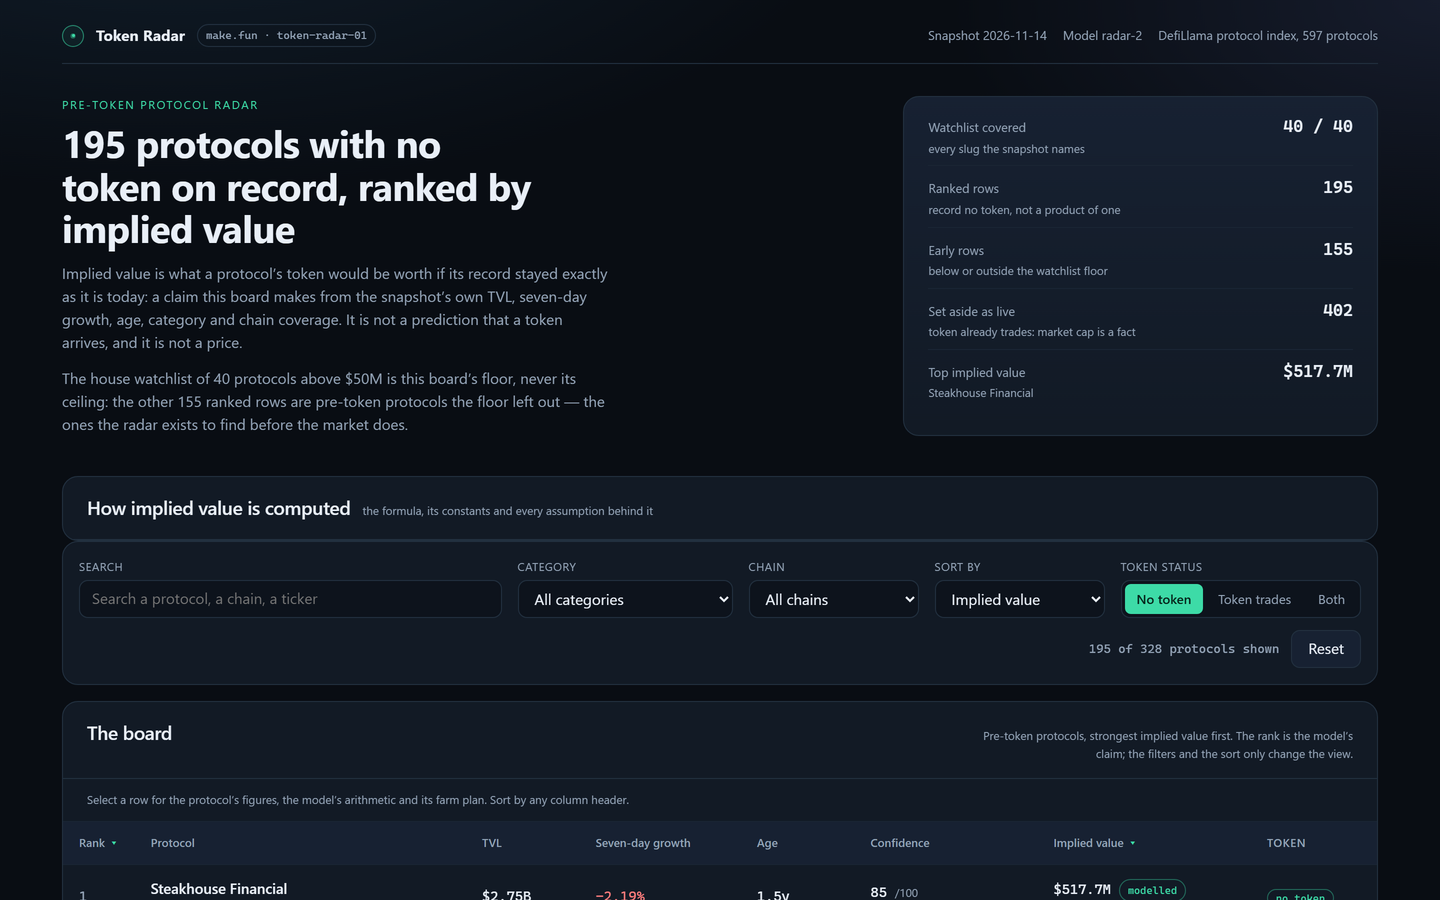
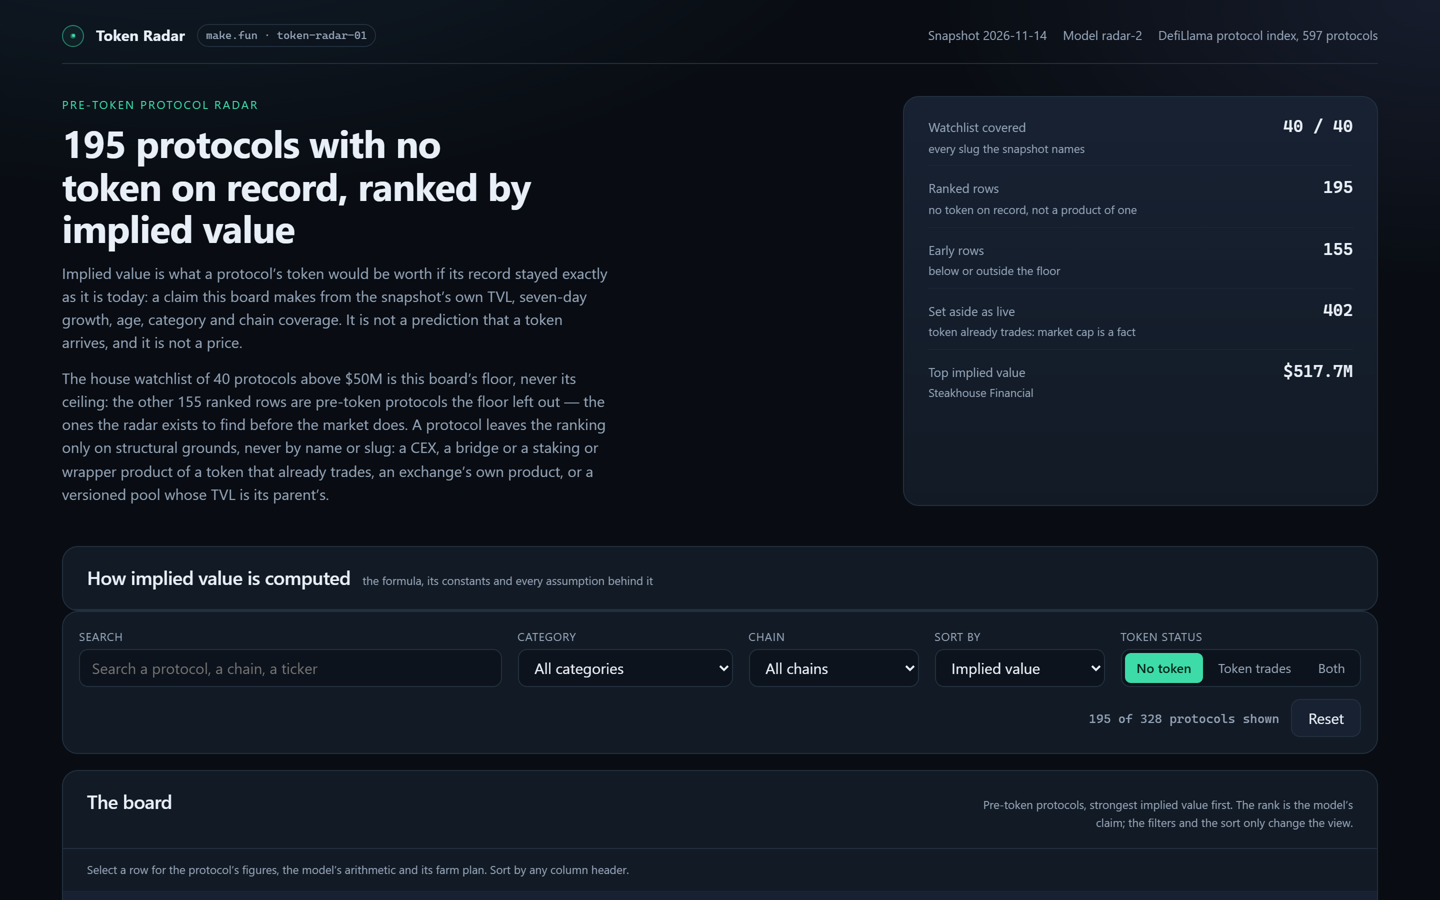
Expose watchlist coverage and refresh real dashboard renders

diff --git a/dashboard/app.js b/dashboard/app.js
@@ -151,12 +151,12 @@
         el('p', { class: 'eyebrow', text: 'Pre-token protocol radar' }),
         el('h1', { text: DATA.board_size + ' protocols with no token on record, ranked by implied value' }),
         el('p', { class: 'lede-text', text: 'Implied value is what a protocol\u2019s token would be worth if its record stayed exactly as it is today: a claim this board makes from the snapshot\u2019s own TVL, seven-day growth, age, category and chain coverage. It is not a prediction that a token arrives, and it is not a price.' }),
-        el('p', { class: 'lede-text', text: 'The house watchlist of ' + DATA.watchlist_size + ' protocols above $' + Math.round(FLOOR / 1e6) + 'M is this board\u2019s floor, never its ceiling: the other ' + DATA.early_size + ' ranked rows are pre-token protocols the floor left out \u2014 the ones the radar exists to find before the market does.' })
+        el('p', { class: 'lede-text', text: 'The house watchlist of ' + DATA.watchlist_size + ' protocols above $' + Math.round(FLOOR / 1e6) + 'M is this board\u2019s floor, never its ceiling: the other ' + DATA.early_size + ' ranked rows are pre-token protocols the floor left out \u2014 the ones the radar exists to find before the market does. A protocol leaves the ranking only on structural grounds, never by name or slug: a CEX, a bridge or a staking or wrapper product of a token that already trades, an exchange\u2019s own product, or a versioned pool whose TVL is its parent\u2019s.' })
       ),
       el('div', { class: 'facts' },
-        fact('Watchlist covered', DATA.watchlist_size + ' / ' + DATA.watchlist_size, 'every slug the snapshot names'),
-        fact('Ranked rows', String(DATA.board_size), 'record no token, not a product of one'),
-        fact('Early rows', String(DATA.early_size), 'below or outside the watchlist floor'),
+        fact('Watchlist covered', DATA.watchlist_covered + ' / ' + DATA.watchlist_size, 'every slug the snapshot names'),
+        fact('Ranked rows', String(DATA.board_size), 'no token on record, not a product of one'),
+        fact('Early rows', String(DATA.early_size), 'below or outside the floor'),
         fact('Set aside as live', String(DATA.live_size), 'token already trades: market cap is a fact'),
         fact('Top implied value', fmtUsd(RANKED.length ? RANKED[0].implied_value_usd : 0), RANKED.length ? RANKED[0].name : '')
       )
@@ -192,7 +192,7 @@
           el('li', { text: 'Maturity rises with the time the snapshot has tracked the protocol with no token on record and saturates at ' + MODEL.maturity_days + ' days (' + (MODEL.maturity_days / 365).toFixed(1) + ' years): a long record is evidence of a real protocol, not of a bigger claim. A missing listing date is assumed ' + MODEL.unknown_age_days + ' days.' }),
           el('li', { text: 'Category is the sector\u2019s share of value a token could capture, from the table below. It is a sector table, never a list of protocols, and the model has no per-protocol exception.' }),
           el('li', { text: 'Breadth rewards deployment across chains up to ' + MODEL.breadth_chains + ', then stops: more chains is more distribution, not unlimited value. The chain count is the snapshot\u2019s own list.' }),
-          el('li', { text: 'Confidence is separate from value: it reports how much of the record exists (listing date, seven-day change, category, chains, momentum, size above the house floor) on a 0..100 scale, sorts rows inside a band of value, and never moves a rank.' }),
+          el('li', { text: 'Confidence is separate from value: it reports how much of the record exists (listing date, seven-day change, category, chains, momentum, size above the house floor) on a 0..100 scale, and never moves a rank.' }),
           el('li', { text: 'A live-token protocol is never scored: its market cap is what the market says, so it is shown with its own number and status, filterable but never ranked.' })
         ),
         el('table', { class: 'mini' },

diff --git a/lib/model.ts b/lib/model.ts
@@ -218,6 +218,7 @@ export interface RadarData {
   model: ModelConstants;
   model_version: string;
   watchlist_size: number;
+  watchlist_covered: number;
   board_size: number;
   early_size: number;
   live_size: number;
@@ -433,6 +434,7 @@ export function buildRadar(snapshot: Snapshot, model: ModelConstants = MODEL): {
     model,
     model_version: MODEL_VERSION,
     watchlist_size: snapshot.watchlist.length,
+    watchlist_covered: board.filter((r) => watched.has(r.slug)).length,
     board_size: board.length,
     early_size: board.filter((r) => !watched.has(r.slug)).length,
     live_size: live.length,
